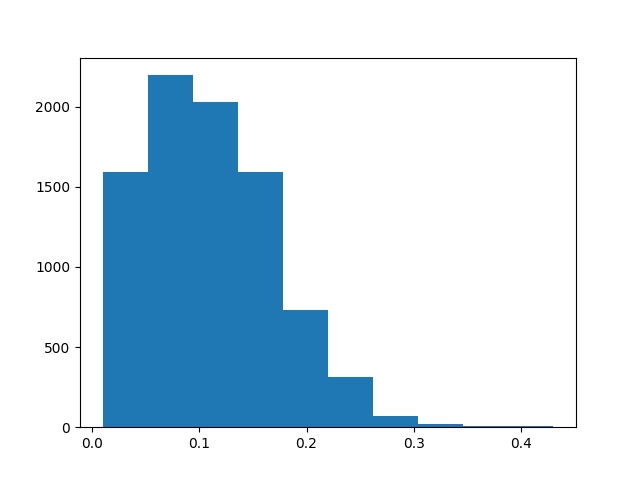
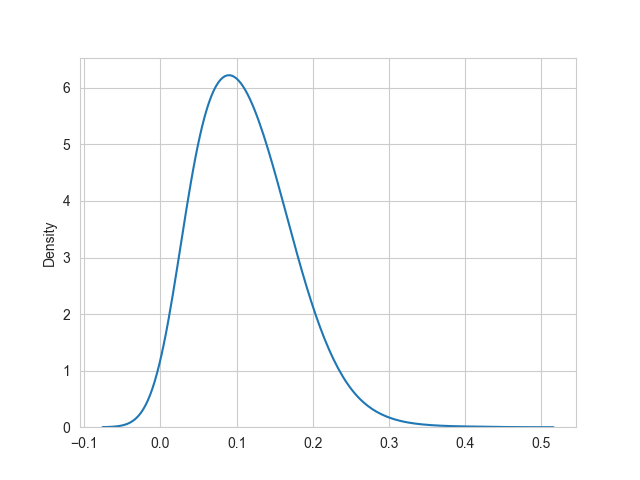
Added a density curve for the distribution

diff --git a/Max_KLDivergence/convert_to_hist.py b/Max_KLDivergence/convert_to_hist.py
@@ -19,4 +19,4 @@ def convert(img_name, txt_name, hist):
     plt.show()
 
 if __name__ == "__main__":
-    convert("Samp_Distr.png", "Samp_Distr.txt", False)
+    convert("Distr.png", "Distr_data.txt", False)
